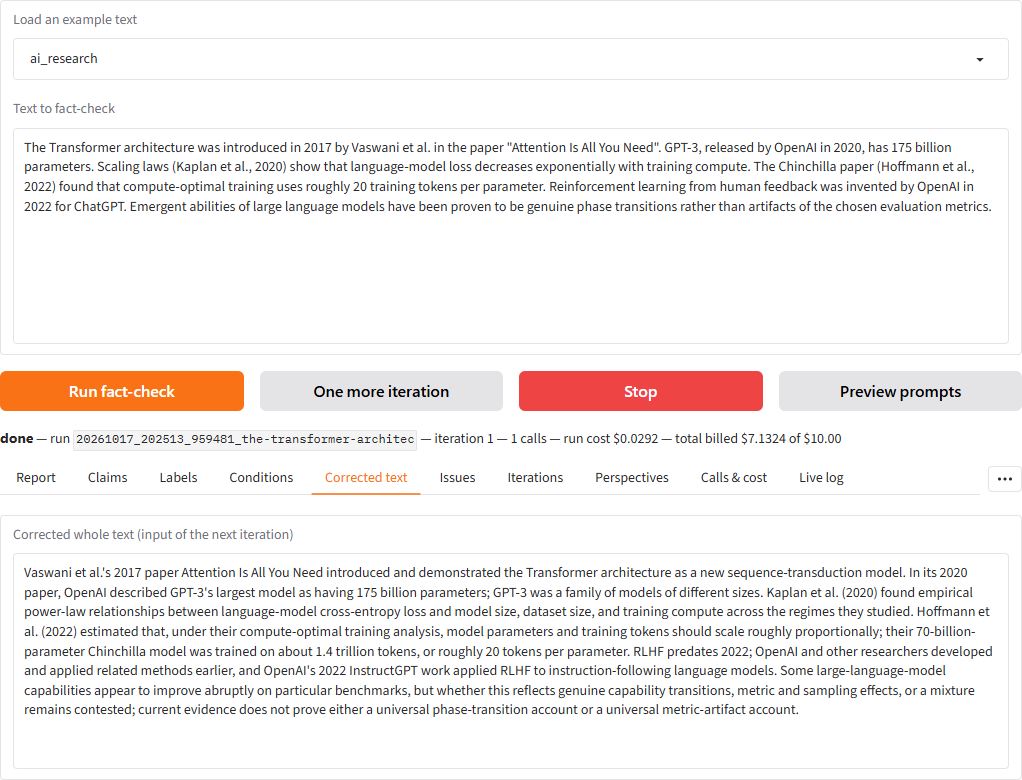
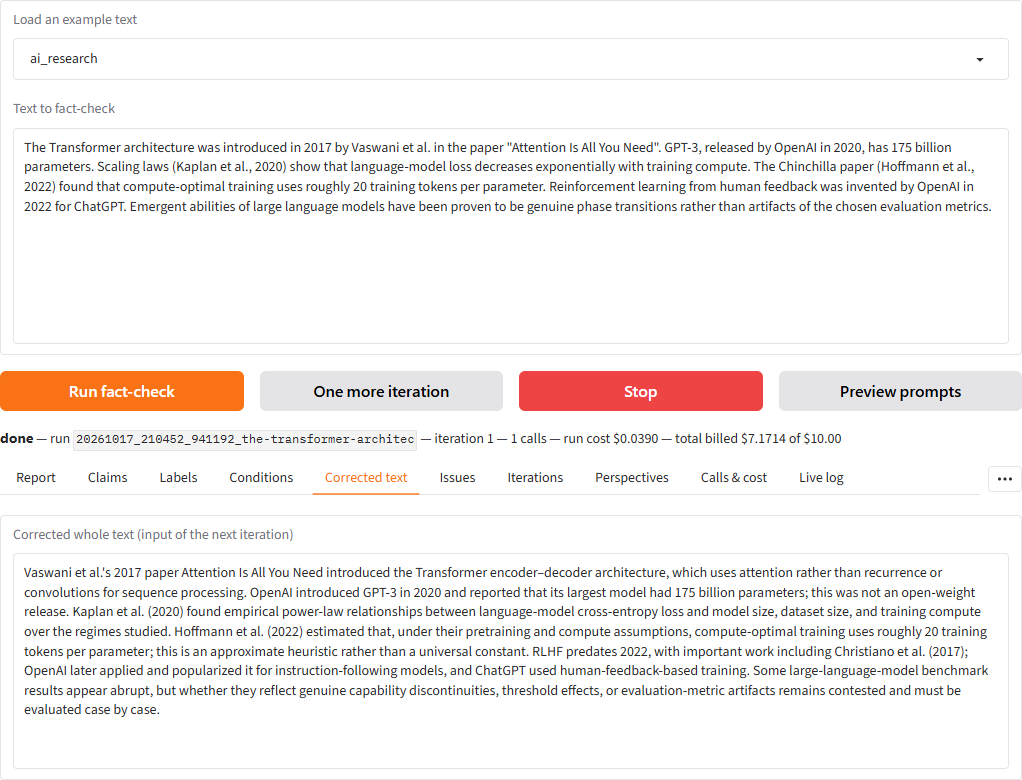
docs(readme): first image is the fullscreen app after a run, Claims output and settings together
- take_screenshots.py: 1920x1080 window; app.png is the whole page after the run with the Claims tab open and
  its empty border trimmed (Pillow ImageChops); the separate Claims crop is dropped
- README: new top caption; Example section numbers from the new run (20261017_210452_941192)
- billed total updated to the ledger value ($7.17)

Changed region(s): [[0.0, 0.7077, 0.9706, 0.9231], [0.1517, 0.5538, 0.2427, 0.5846]]

diff --git a/docs/scripts/take_screenshots.py b/docs/scripts/take_screenshots.py
@@ -1,8 +1,9 @@
-"""Screenshots of the Gradio UI for README.md: the whole app, then one real run on an example text.
+"""Screenshots of the Gradio UI for README.md after one real run on an example text.
 
 Local: starts the real app in this process (`ui.launch(block=False)`), drives it with headless Playwright like a
-user would (pick an example text, pick a preset, Load preset, Run fact-check), waits for the run to finish and saves
-PNGs to docs/images/.
+user would (pick an example text, pick a preset, Load preset, Run fact-check) in a fullscreen 1920x1080 window and
+waits for the run to finish. It then saves PNGs to docs/images/: app.png is the whole page with the Claims tab open
+and its empty border trimmed; the example_*.png files show only the text-and-results column with another tab open.
 Global context: the run goes through pipeline.run_fact_check and RunContext.call like any UI run, so its prompt and
 output are logged in full to logs/ and runs/<id>/, billed to logs/spend.jsonl and capped by SPEND_LIMIT_USD. With
 the default preset it is one gpt-6-luna call with web search, about $0.03.
@@ -19,6 +20,7 @@ import argparse
 import logging
 import re
 
+from PIL import Image, ImageChops  # Pillow, installed with gradio
 from playwright.sync_api import expect, sync_playwright
 
 from auto_fact_checker import spend
@@ -36,13 +38,25 @@ def pick(page, combobox: str, option: str) -> None:
     page.get_by_role("option", name=option, exact=True).click()
 
 
-def save(page, path, tab: str | None = None, max_height: int | None = None) -> None:
-    """Whole page (tab=None), or the text-and-results column `#afc-io` with `tab` open, cut to max_height px."""
-    if tab is None:
+def trim(path, margin: int = 16) -> None:
+    """Cut the empty page background (the top-left pixel's colour) around the content, keeping `margin` px.
+    Pillow recipe: https://stackoverflow.com/questions/10615901/trim-whitespace-using-pil ;
+    https://pillow.readthedocs.io/en/stable/reference/ImageChops.html#PIL.ImageChops.difference"""
+    im = Image.open(path).convert("RGB")
+    left, top, right, bottom = ImageChops.difference(im, Image.new("RGB", im.size, im.getpixel((0, 0)))).getbbox()
+    im.crop((max(left - margin, 0), max(top - margin, 0), min(right + margin, im.width),
+             min(bottom + margin, im.height))).save(path)
+
+
+def save(page, path, tab: str, whole_page: bool = False, max_height: int | None = None) -> None:
+    """Open `tab`, then save the whole page with its empty border trimmed, or only the text-and-results column
+    `#afc-io` cut to max_height px."""
+    page.get_by_role("tab", name=tab, exact=True).click()
+    page.evaluate("window.scrollTo(0, 0)")  # bounding_box() is viewport-relative; at scroll 0 it is page-relative
+    if whole_page:
         page.screenshot(path=path, full_page=True)
+        trim(path)
     else:
-        page.get_by_role("tab", name=tab, exact=True).click()
-        page.evaluate("window.scrollTo(0, 0)")  # bounding_box() is viewport-relative; at scroll 0 it is page-relative
         box = page.locator("#afc-io").bounding_box()
         box["height"] = min(box["height"], max_height or box["height"])
         page.screenshot(path=path, full_page=True, clip=box)  # full_page so the clip may extend below the viewport
@@ -67,22 +81,20 @@ def main() -> None:
     try:
         with sync_playwright() as pw:
             browser = pw.chromium.launch(channel=args.channel)
-            page = browser.new_page(viewport={"width": 1600, "height": 1000}, color_scheme="light")
+            page = browser.new_page(viewport={"width": 1920, "height": 1080}, color_scheme="light")  # fullscreen 1080p
             page.goto(f"http://127.0.0.1:{args.port}/")
             pick(page, "Load an example text", args.example)
             expect(page.get_by_label("Text to fact-check")).not_to_have_value("")  # example.input filled the box
             pick(page, "Preset (fills every setting below)", args.preset)
             page.get_by_role("button", name="Load preset").click()
             page.wait_for_timeout(2000)  # Gradio keeps a stream open (no "networkidle"); the preset event takes <1 s
-            save(page, out / "app.png")
-            page.set_viewport_size({"width": 2400, "height": 1000})  # wider results column: 7-column Claims table
             page.get_by_role("button", name="Run fact-check").click()
             status = page.get_by_text(FINISHED).first
             status.wait_for(timeout=args.timeout * 1000)
             log.info("Run finished: %s", status.inner_text())
             if not status.inner_text().startswith("done"):
                 raise RuntimeError(f"Run did not finish cleanly: {status.inner_text()}")
-            save(page, out / "example_claims.png", tab="Claims")
+            save(page, out / "app.png", tab="Claims", whole_page=True)  # README's first image: output + settings
             save(page, out / "example_corrected.png", tab="Corrected text")
             save(page, out / "example_report.png", tab="Report", max_height=1600)
             browser.close()

diff --git a/README.md b/README.md
@@ -6,11 +6,12 @@ non-agentic API call** up to **Claude Code / Codex agents that spawn subagents**
 per scientist**. Every claim gets an accuracy score, every verdict label and evaluative condition gets a
 **0–100 % score plus a confidence %**, and the corrected text can be re-checked **iteratively** until it is accurate.
 
-![The whole Auto Fact-Checker UI: text, run buttons and result tabs on the left; preset and every setting on the right](docs/images/app.png)
+![The whole Auto Fact-Checker UI after a run: input text, done/cost status and the Claims table with six scored and corrected claims on the left; preset and settings on the right](docs/images/app.png)
 
-*The UI: the text and the result tabs are on the left, and the preset and settings are on the right. Here the
-`ai_research` example and the `L1_single_call_search` preset are loaded. A real run on this text is shown under
-[Example](#example-the-ai-research-text).*
+*The UI in a fullscreen 1920×1080 browser window after one run on the `ai_research` example, with the
+`L1_single_call_search` preset. Left: the input text, the status line with the run's cost, and the **Claims** tab
+(accuracy, confidence, claim types, strongest labels and a corrected claim per sentence). Right: the preset and the
+settings. The run is described under [Example](#example-the-ai-research-text).*
 
 ## Methodology
 
@@ -103,7 +104,7 @@ web search, looping on 100 claims and judged against the gold evidence:
 
 Treat the loop's "accurate" label as a claim to verify, not a verification.
 
-The whole project, from implementation through evaluation, cost $7.13 in billed API calls (`uv run afc spend`).
+The whole project, from implementation through evaluation, cost $7.17 in billed API calls (`uv run afc spend`).
 
 ## Quick start
 
@@ -134,21 +135,18 @@ uv run afc bench --systems configs/bench/baseline.json configs/bench/full_single
 This is one run of the default preset `L1_single_call_search` on
 [`examples/ai_research.md`](examples/ai_research.md):
 - one `gpt-6-luna` call with web search, over the whole text, with the full prompt
-- 2 searches, $0.029
-- run `20261017_202513_959481`
+- 3 searches, $0.039
+- run `20261017_210452_941192`
 
-The **Claims** tab gives each sentence an accuracy, a confidence, claim types, its strongest verdict labels and a
-corrected claim:
-
-![Claims tab after the run: six claims with accuracy, confidence, types, top labels and corrected claims](docs/images/example_claims.png)
-
-Against the answer key in [`docs/examples.md`](docs/examples.md):
-- The two accurate claims (Transformer 2017, GPT-3 175B) got 98% and 95%.
-- Two of the planted errors scored low. "RLHF invented by OpenAI in 2022" got 15%, and "emergent abilities proven
-  to be phase transitions" got 10%.
+The screenshot at the top of this README shows its **Claims** tab. Against the answer key in
+[`docs/examples.md`](docs/examples.md):
+- The two accurate claims (Transformer 2017, GPT-3 175B) got 99% and 95%.
+- Two of the planted errors scored low. "RLHF invented by OpenAI in 2022" got 15%, with the correction citing
+  Christiano et al. 2017. "Emergent abilities proven to be phase transitions" got 5%.
 - The third planted error, "loss decreases exponentially", was corrected to Kaplan et al.'s power laws. It still
-  scored 70%, while the key calls it inaccurate.
-- The Chinchilla rule of thumb got 85%, with the 70B-parameter / 1.4T-token detail added.
+  scored 68%, while the key calls it inaccurate.
+- The Chinchilla rule of thumb got 91%. The correction calls the ratio an approximate heuristic, not a universal
+  constant, as the key does.
 
 This is a single run, shown to illustrate the outputs. The measured accuracy is in [Results so far](#results-so-far).
 

diff --git a/reports/all_experiments.md b/reports/all_experiments.md
@@ -146,5 +146,5 @@ agreed with the answer key on all 32 claims (details and costs: [exp00](experime
 ## Spend
 
 The whole project (implementation tests, live tests, example runs, UI checks, README screenshots and all
-experiments) is recorded call by call in `logs/spend.jsonl`. **Billed total: $7.13 of the $10 cap** (2026-10-17). Agent runs on subscription auth are
+experiments) is recorded call by call in `logs/spend.jsonl`. **Billed total: $7.17 of the $10 cap** (2026-10-17). Agent runs on subscription auth are
 not billed; their notional cost is logged separately.
